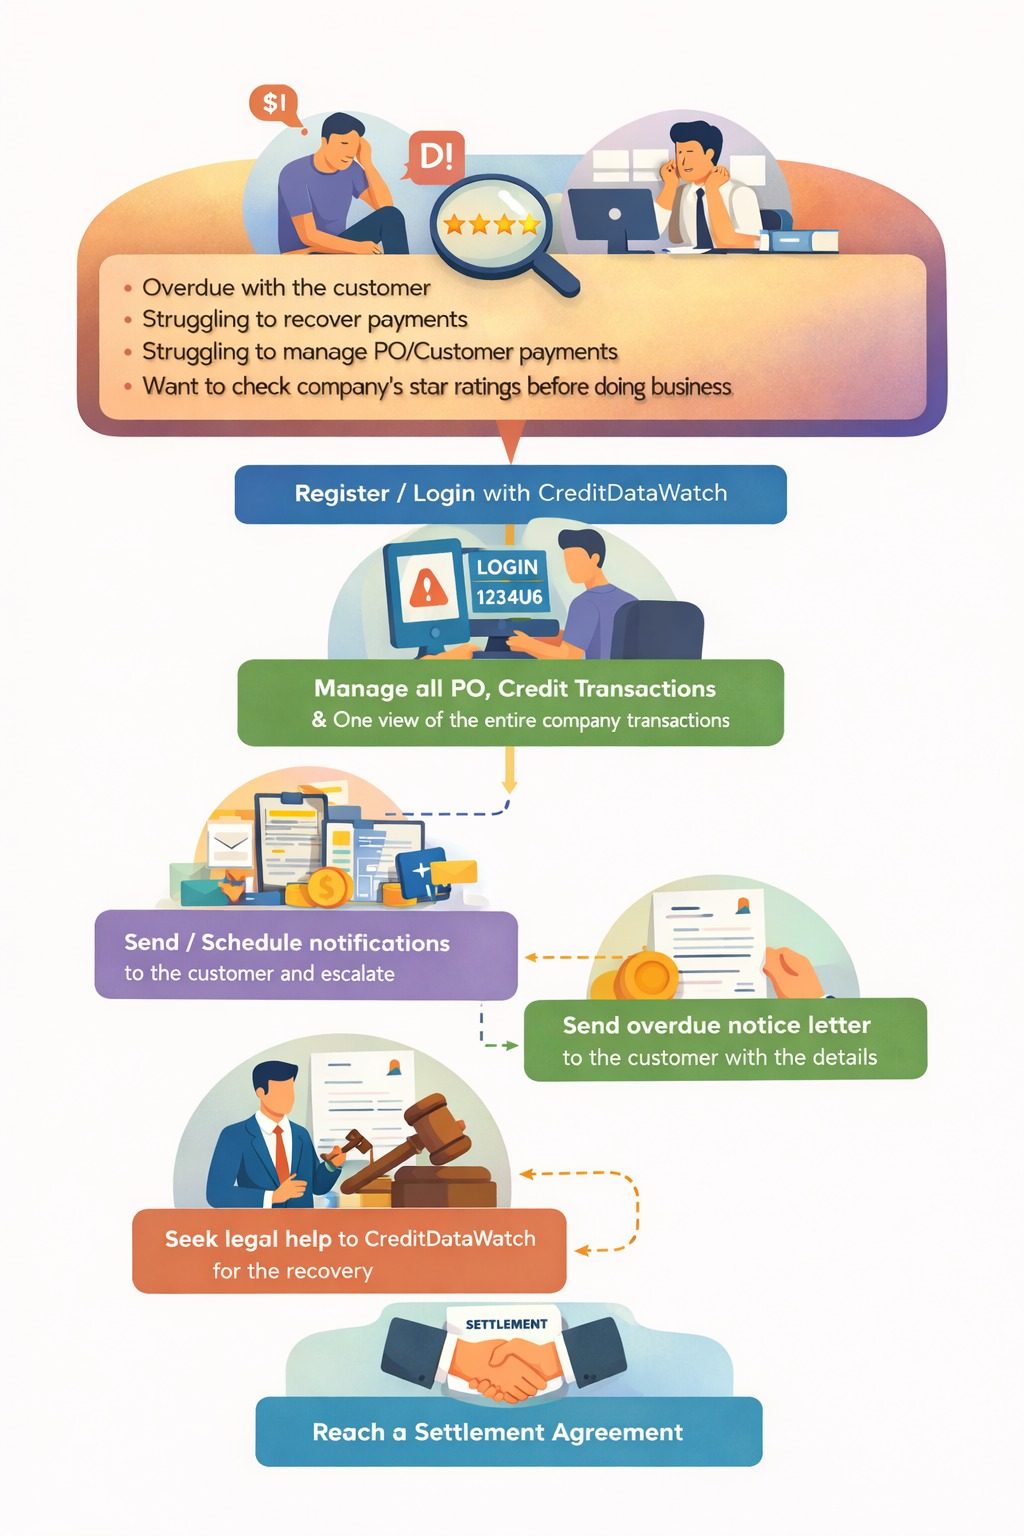
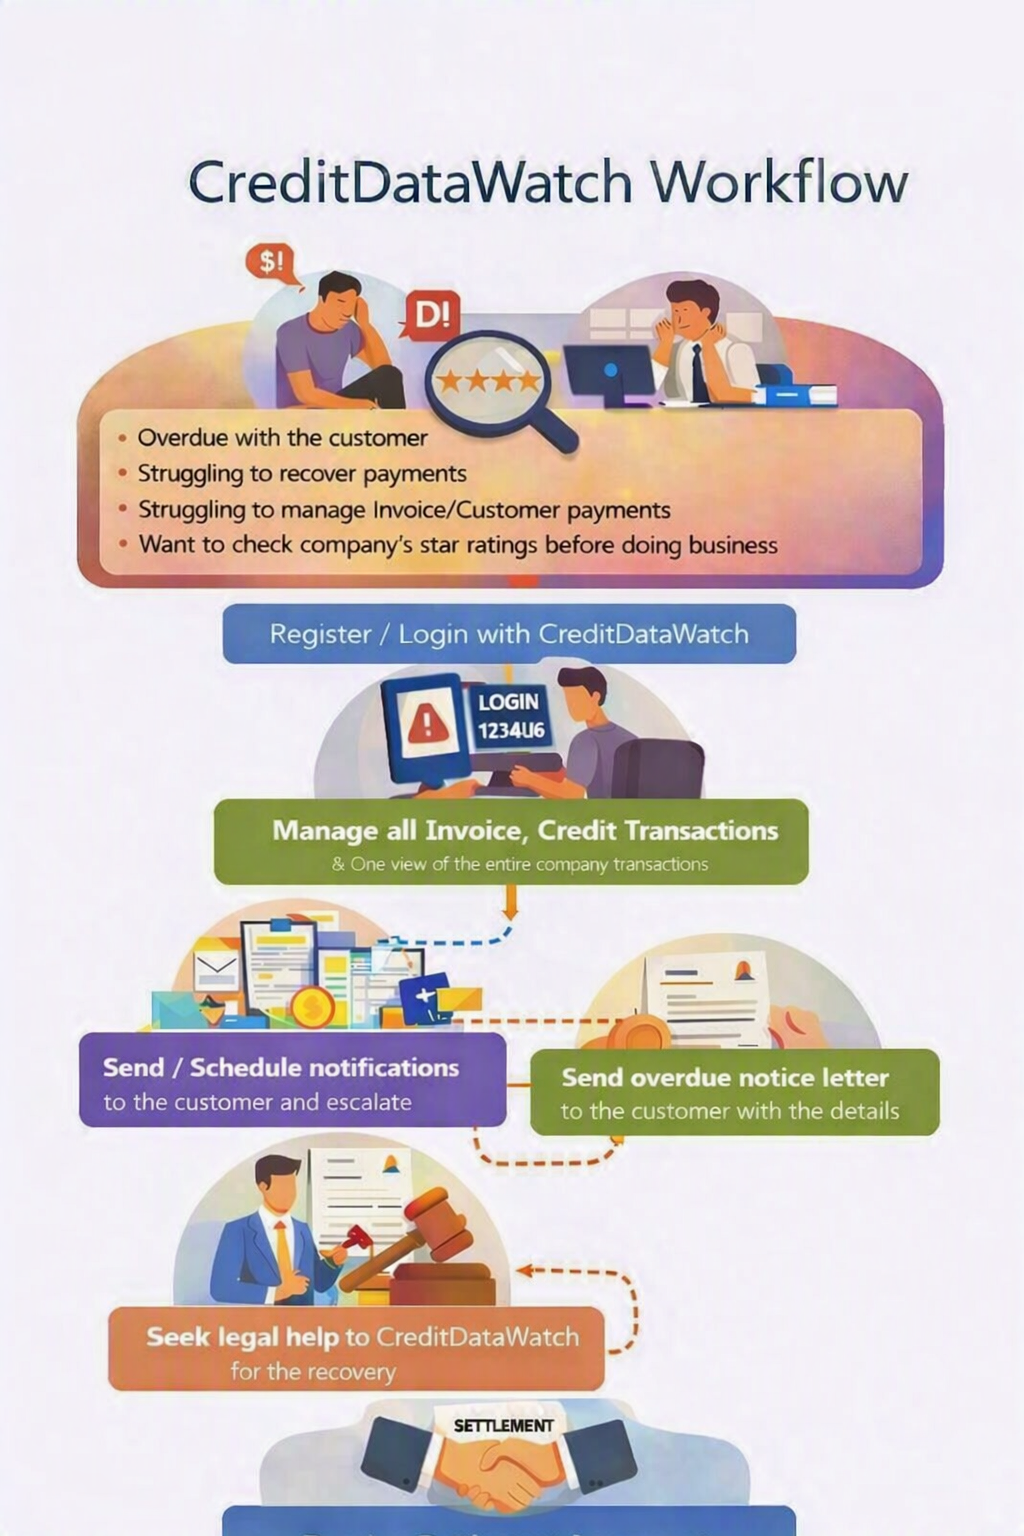
image

diff --git a/client/src/pages/services/PartnersReport.jsx b/client/src/pages/services/PartnersReport.jsx
@@ -7,7 +7,6 @@ export default function PartnersReport() {
     'Verified Network Data: Review authenticated default records from a wide range of partner businesses.',
     'Cross-Sector Analysis: Compare credit backgrounds across multiple different industries.',
     'Risk Detection: Identify potential non-payers early with our proactive warning system.',
-    'Deep Financial Auditing: Perform a thorough evaluation of a company\'s credit reliability.',
     'Trend Monitoring: Spot specific defaulting patterns within your particular trade sector.',
   ]
 
@@ -155,10 +154,9 @@ export default function PartnersReport() {
 
             <div className="bg-amber-100 rounded-xl p-4">
               <p className="font-semibold text-amber-900 text-sm mb-2">How to close a case:</p>
-              <p className="text-amber-700 text-xs">Go to User Dashboard → Manage Defaulters → Locate Case → Mark as "Settled/Closed"</p>
+              <p className="text-amber-700 text-xs">Go to User Dashboard → Search Invoice No → Mark as "Closed"</p>
             </div>
           </div>
-
         </motion.div>
       </div>
       </section>

diff --git a/client/src/pages/services/CreditManagement.jsx b/client/src/pages/services/CreditManagement.jsx
@@ -86,7 +86,6 @@ export default function CreditManagement() {
             <div className="space-y-2">
               {[
                 'Zero Manual Effort: Let automated reminders do the heavy lifting for you.',
-                '100% Digital Records: Get instant, digital proof of all your trade agreements.',
                 'Corporate Standards: Upgrade your collection strategy with a highly professional tone.',
                 'All-in-One Dashboard: Keep a close eye on every single credit exchange in one convenient place.',
                 'Frictionless Settlements: Resolve pending payments smoothly and easily.',

diff --git a/client/src/pages/services/Finalization.jsx b/client/src/pages/services/Finalization.jsx
@@ -139,7 +139,7 @@ export default function Finalization() {
               <li>It helps the defaulter restore their business reputation</li>
             </ul>
             <p className="text-gray-700 leading-relaxed mt-4">
-              Navigate to Dashboard → Defaulters → Select Case → Update Status to "Settled" to complete the finalization process.
+              Navigate to Dashboard → Search for Invoice no→ Update Status to "Closed" to complete the finalization process.
             </p>
           </div>
 
